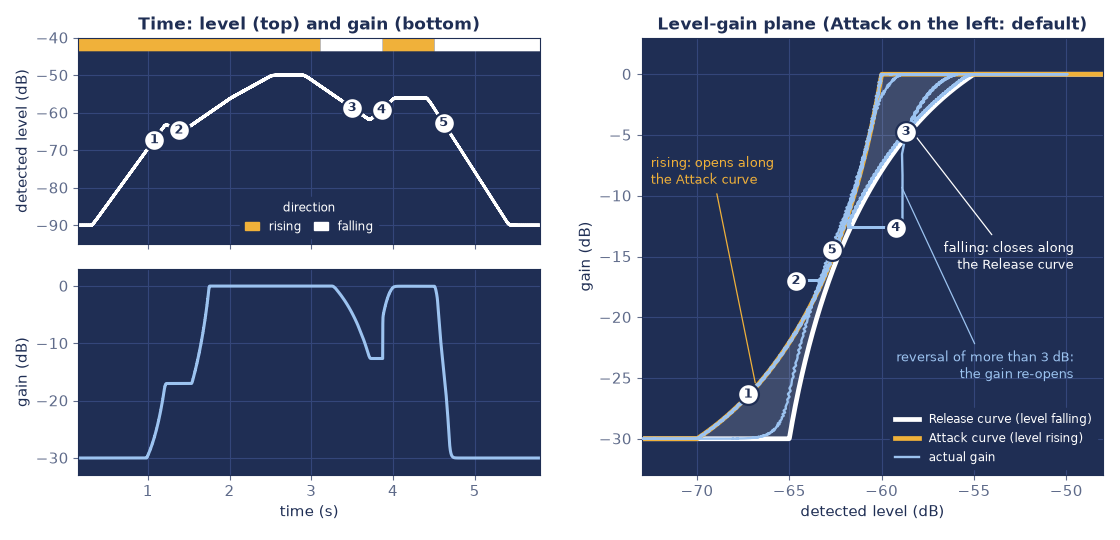
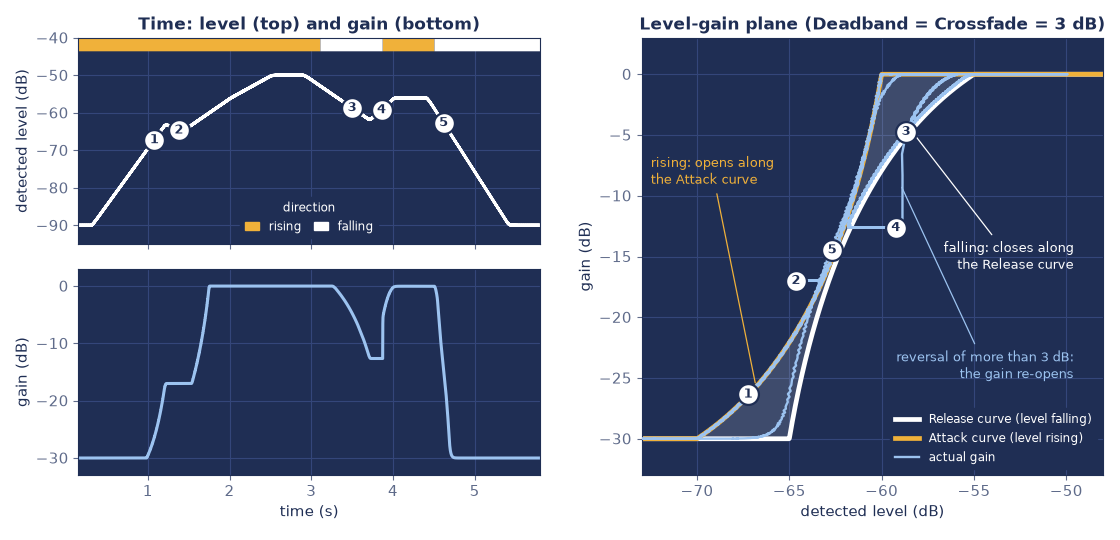
Expose curve-switch deadband and crossfade as knobs (default 1 dB)
The 3 dB deadband and 3 dB crossfade that decide when the gain target
switches between the Attack and Release curves were fixed constants.
Add them as two hidden sliders (18 / 19, 0-10 dB, default 1 dB) and show
them as a CURVE SWITCH group at the right of the knob row.

At 3 dB / 3 dB the output is bit-identical to the previous fixed-value
behaviour. Projects saved before these sliders existed now load at 1 dB.

Docs: describe the new knobs, re-measure the flutter table over seven
Deadband / Crossfade settings, regenerate Fig. 3 (labelled 3 dB), Fig. 5
and the GUI screenshots.

Changed region(s): [[0.5625, 0.0296, 1.0, 0.0593]]

diff --git a/README.md b/README.md
@@ -83,6 +83,7 @@ TDR Kotelnikov の Peak と RMS のリリースをヒントに、異なる時間
 | PEAK | Sens / Release | Peak 検知の感度と、検知値が下がる遅さ。 |
 | RMS | Sens / Window / Release | RMS 検知の感度、平均時間、検知値が下がる遅さ。 |
 | GAIN SMOOTHING | Open / Close | ゲインが開くとき・閉じるときの平滑時間。 |
+| CURVE SWITCH | Deadband / Crossfade | 上がる・下がるの切り替えの鈍さ（0〜10 dB。下記）。Attack が左のときだけ効く。 |
 
 最下段の帯には操作のヒントが出ます。ハンドルやつまみにマウスを乗せると、その説明に切り替わります。
 
@@ -111,12 +112,18 @@ TDR Kotelnikov の Peak と RMS のリリースをヒントに、異なる時間
 | Attack が左（既定値。Attack -70 / -60 dB、Release -65 / -55 dB） | 小さい音から先に Attack で開く。下がるときは Release に沿って、開いたときより高いレベルから閉じ始める。ゲインは2本のカーブの間でループを描く。 |
 | Attack が右 | 2本の間（グラフで薄く塗った帯）にいる間は、ゲインを保持する（ヒステリシス）。上がるときは Attack まで、下がるときは Release まで動かないと変化しない。 |
 
-上がる・下がるが細かく入れ替わる音（息や声の揺らぎ）では、ゲインが2本のカーブの間を行き来して「バチバチ」しやすくなります。Attack が左のとき、これを次の2つで抑えています。
+上がる・下がるが細かく入れ替わる音（息や声の揺らぎ）では、ゲインが2本のカーブの間を行き来して「バチバチ」しやすくなります。Attack が左のとき、これを下段の **CURVE SWITCH** の2つのつまみ（0〜10 dB、既定値はどちらも 1 dB）で抑えています。
 
-- **3 dB の不感帯**：上がる・下がるを切り替えるのは、レベルが直前の頂点（谷）から 3 dB 以上逆向きに動いたとき。それより小さな揺れでは向きを変えず、ゲインはそのまま保持する。
-- **3 dB のクロスフェード**：向きが切り替わったあと、目標を Attack から Release（またはその逆）へ、レベルが 3 dB 動く間にゆるやかに移す。目標が飛び移らない。
+- **Deadband（不感帯）**：上がる・下がるを切り替えるのは、レベルが直前の頂点（谷）から Deadband 以上逆向きに動いたとき。それより小さな揺れでは向きを変えず、ゲインはそのまま保持する。
+- **Crossfade**：向きが切り替わったあと、目標を Attack から Release（またはその逆）へ、レベルが Crossfade 動く間にゆるやかに移す。目標が飛び移らない。0 dB にすると、ほぼ瞬時に切り替わる。
 
-どちらも固定値で、スライダーはありません。実際のゲインは、さらに Gain Smoothing でなだらかになります。3 dB を超えて本当に向きが変わったときは、新しい目標へ Gain Smoothing の速さで動くため、数 dB の段差が出ることがあります。気になる場合は、Gain Smooth Open / Close を長くしてください。動きの詳細と測定結果は [`docs/algorithm.md`](docs/algorithm.md) の 3 章にあります。
+調整の目安です。
+
+- 細かい「バチバチ」が残るときは、Deadband を上げる（揺れの幅より少し大きく）。上げすぎると、ピークのあとに閉じ始めるのが遅れ、そのあと一気に閉じる。
+- 向きが切り替わったときの段差（「ブツッ」）が気になるときは、Crossfade を上げるか、Gain Smooth Open を長くする。
+- 既定値の 1 dB は控えめな値です。3 dB にすると、細かい揺れをより強く抑えられますが、ピークのあとに閉じ始めるのが、その分遅れます。
+
+実際のゲインは、さらに Gain Smoothing でなだらかになります。この2つは、Attack が右のときと Sync が On のときは使いません。動きの詳細と測定結果は [`docs/algorithm.md`](docs/algorithm.md) の 3 章にあります。
 
 **Sync Attack / Release** は、一時的なモードです。
 
@@ -151,6 +158,8 @@ TDR Kotelnikov の Peak と RMS のリリースをヒントに、異なる時間
 | Gain Smooth Close (ms) | 0.1〜500 | 15 | ゲインが閉じる方向の平滑時定数。 |
 | Meter Min (dB) | -90〜-30 | -90 | グラフの横軸と Peak / RMS メーターの下限。表示だけに影響する。 |
 | Meter Max (dB) | -60〜0 | 0 | グラフの横軸と Peak / RMS メーターの上限。表示だけに影響する。 |
+| Curve Switch Deadband (dB) | 0〜10 | 1 | 上がる・下がるを切り替えるのに必要な、逆向きのレベルの動き。これより小さい揺れでは、向きもゲインも変えない（Attack が左のときだけ効く）。 |
+| Curve Switch Crossfade (dB) | 0〜10 | 1 | 向きが切り替わったあと、目標を Attack ⇔ Release へ移す間のレベルの動き。0 だと、ほぼ瞬時に切り替わる（Attack が左のときだけ効く）。 |
 
 ### アルゴリズムの概要
 
@@ -159,7 +168,7 @@ TDR Kotelnikov の Peak と RMS のリリースをヒントに、異なる時間
 - 検知は L/R の絶対値の大きい方（ステレオリンク）で行い、同じゲインを両チャンネルにかける。ルックアヘッドはなく、遅延は加わらない。
 - **Peak** は即時アタック＋指数リリース。**RMS** は2乗平均の1次平滑＋リリースで、正弦波ではピークと同じ値になるよう合わせてある。それぞれに感度（dB）をかけ、大きい方を検知レベルとする。
 - **カーブ**は Close〜Open を 0〜1 に正規化し、制御点を1つ持つ2次ベジェ曲線で結ぶ。Shape が制御点の位置にあたる。逆算は閉じた式で、反復計算はない。
-- **上がる／下がるの判定と目標ゲイン**：Attack が左のとき（既定）は、検知レベルが上がっているか下がっているかを、3 dB の不感帯付きで判定する。上がっている間は Attack、下がっている間は Release のカーブを目標とし、向きが変わった直後は、レベルが 3 dB 動く間に目標を一方から他方へ移す。ゲインは、上がっている間は開く方向（Gain Smooth Open）にだけ、下がっている間は閉じる方向（Close）にだけ、目標へ動く。Attack が右のときは、2本のカーブの間でゲインを保持し、下回れば開く方向、上回れば閉じる方向へ動かす。
+- **上がる／下がるの判定と目標ゲイン**：Attack が左のとき（既定）は、検知レベルが上がっているか下がっているかを、Deadband（既定 1 dB）の不感帯付きで判定する。上がっている間は Attack、下がっている間は Release のカーブを目標とし、向きが変わった直後は、レベルが Crossfade（既定 1 dB）動く間に目標を一方から他方へ移す。ゲインは、上がっている間は開く方向（Gain Smooth Open）にだけ、下がっている間は閉じる方向（Close）にだけ、目標へ動く。Attack が右のときは、2本のカーブの間でゲインを保持し、下回れば開く方向、上回れば閉じる方向へ動かす。
 - **ゲイン平滑**は dB の領域の1次平滑で、開く方向と閉じる方向で時定数を分けている。
 - 再生開始時（JSFX の初期化後の最初のサンプル）は、そのときの検知レベルに対応するゲイン（2本のうち小さい方）から始める。
 - **Sync** は、使うカーブを Attack に切り替えるだけで、Release の設定は書き換えない。
@@ -171,7 +180,7 @@ TDR Kotelnikov の Peak と RMS のリリースをヒントに、異なる時間
 - Peak / RMS / 検知レベルのメーター値は、`@sample` が前回の描画以降の最大値を貯め、GUI が描画のたびに読み出して 0 に戻す。ゲイン（GR）は、`@sample` が更新している現在値を GUI が読むだけ。
 - Meter Min / Meter Max は表示専用。GUI で変えても、係数の再計算やオートメーションへの書き込みは行わない。
 - Sync は、実際に使う Release カーブの値（`e_*`）を Attack か Release のスライダーから選ぶだけで、Release のスライダーは書き換えない。
-- 上がる／下がるの判定に使う 3 dB の不感帯とクロスフェード幅は、`@init` の固定値 `dir_dead` / `dir_fade` で、スライダーにはしていない。
+- 上がる／下がるの判定に使う不感帯とクロスフェード幅は、スライダー 18 / 19（`dead_db` / `fade_db`）の値から、`update_coefs()` が `dir_dead` / `dir_fade` に写す。これらのスライダーを追加する前に保存したプロジェクトでは、既定値の 1 dB で読み込まれる（それまでは 3 dB の固定値だった）。
 
 ### 未実装
 
@@ -181,9 +190,9 @@ TDR Kotelnikov の Peak と RMS のリリースをヒントに、異なる時間
 
 オープンソースの JSFX インタプリタ（ysfx）で、描画とマウス・キー入力を再現してオフライン検証しました（今回の変更分を含む）。検証用のスクリプトは、このリポジトリには含めていません。
 
-- **処理（DSP）**：静的なカーブが計算どおりになること。Attack = 上がるとき、Release = 下がるとき、という役割が、Attack が左でも右でも名前どおりに働くこと（既定値でゆっくり上げ下げすると、上がるときは約 -70〜-60 dB、下がるときは約 -55〜-65 dB で動く）。別に書いた参照実装（Python）と、Attack が左・右・交差・Sync の各条件で出力が一致すること（差 0.00 dB）。Attack が右のときと Sync が On のときの出力が、変更前の処理と完全に一致すること。Sync を Off に戻すと別々に調整した Release の値がそのまま戻ること。ブロックサイズ（1〜4096 サンプル）が違っても出力が完全に一致すること。サンプルレート（22.05〜192 kHz）で出力が有限で、入力より大きくならないこと。
-- **ばたつきの抑え**：8 Hz で揺れるレベルを与え、ゲインの上下の動きの総量を、不感帯なしの単純な切り替えと比べた（結果は [`docs/algorithm.md`](docs/algorithm.md) の 3.5 節）。
-- **GUI**：複数のウィンドウサイズと HiDPI 相当の描画、ハンドル・つまみのドラッグ、ホイール、右クリックでの数値入力、ダブルクリックでのリセット、Sync の切り替え、Meter Min / Max による表示範囲の変更、ランダムな操作の連続。白・紺・山吹色の配色で、カーブやハンドルがグラフの外にはみ出さないこと。GUI で編集した結果が、スライダーを直接動かしたときと完全に一致すること。GUI が DSP の内部状態を書き換えないこと。
+- **処理（DSP）**：静的なカーブが計算どおりになること。Attack = 上がるとき、Release = 下がるとき、という役割が、Attack が左でも右でも名前どおりに働くこと（既定値でゆっくり上げ下げすると、上がるときは約 -70〜-60 dB、下がるときは約 -55〜-65 dB で動く）。別に書いた参照実装（Python）と、Attack が左・右・交差・Sync の各条件で出力が一致すること（差 0.00 dB）。Attack が右のときと Sync が On のときの出力が、変更前の処理と完全に一致すること。Deadband と Crossfade をどちらも 3 dB にすると、これらを固定値にしていた以前の処理と出力が完全に一致すること（48 通りの条件）。Sync を Off に戻すと別々に調整した Release の値がそのまま戻ること。ブロックサイズ（1〜4096 サンプル）が違っても出力が完全に一致すること。サンプルレート（22.05〜192 kHz）で出力が有限で、入力より大きくならないこと。
+- **ばたつきの抑え**：8 Hz で揺れるレベルを与え、ゲインの上下の動きの総量を、Deadband と Crossfade の設定ごとに比べた（0 / 0 の単純な切り替え、既定値の 1 / 1 など。結果は [`docs/algorithm.md`](docs/algorithm.md) の 3.5 節）。既定値の 1 dB は、3 dB より抑える効果が弱いことも、この測定で確認した。
+- **GUI**：複数のウィンドウサイズと HiDPI 相当の描画、ハンドル・つまみ（CURVE SWITCH の Deadband / Crossfade を含む）のドラッグ、ホイール、右クリックでの数値入力、ダブルクリックでのリセット、Sync の切り替え、Meter Min / Max による表示範囲の変更、ランダムな操作の連続。白・紺・山吹色の配色で、カーブやハンドルがグラフの外にはみ出さないこと。GUI で編集した結果が、スライダーを直接動かしたときと完全に一致すること。GUI が DSP の内部状態を書き換えないこと。
 
 REAPER 本体での確認と聴感確認はこれからです。特に次の点は、実機で確かめる必要があります。
 
